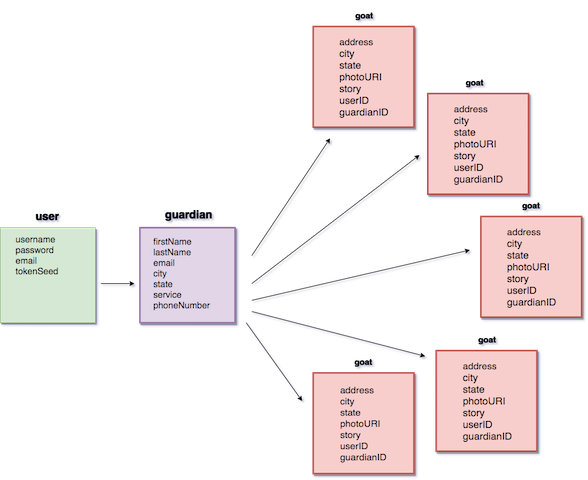
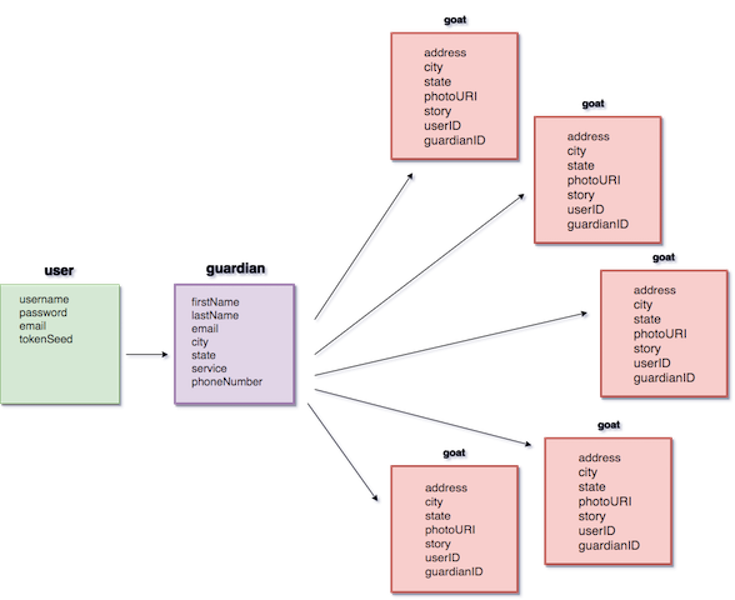
resized schema and deleted code

diff --git a/README.md b/README.md
@@ -81,7 +81,7 @@
 
 ### MVP Schema Diagram
 
-![goat-fellows-schema](temp-assets/Goat-Fellows-Schema.png){:class="img-responsive"}{:height="480px" width="588px"}
+![goat-fellows-schema](temp-assets/Goat-Fellows-Schema.png)
 
 ## **Routes**
 
